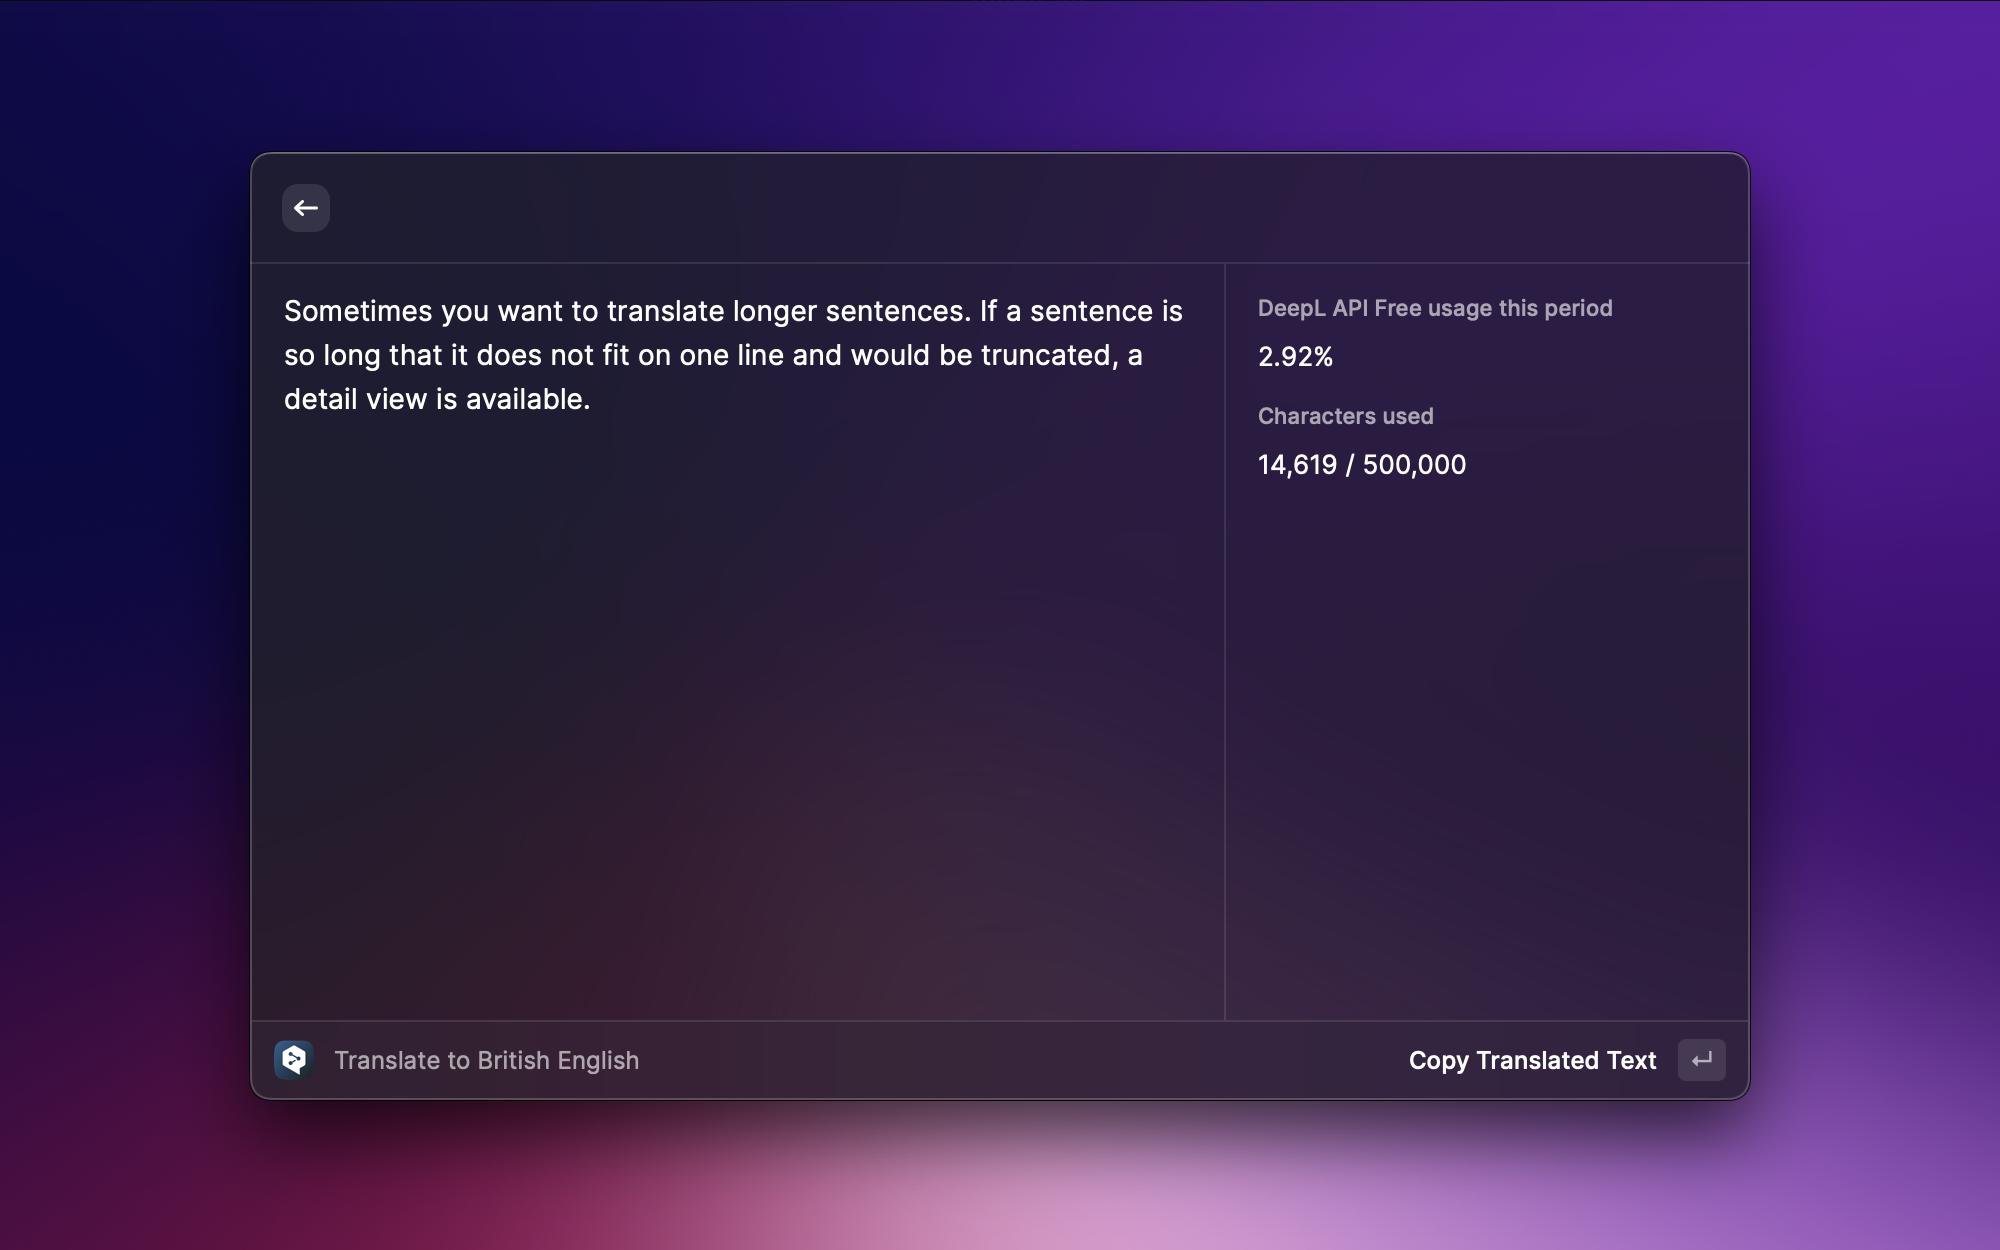
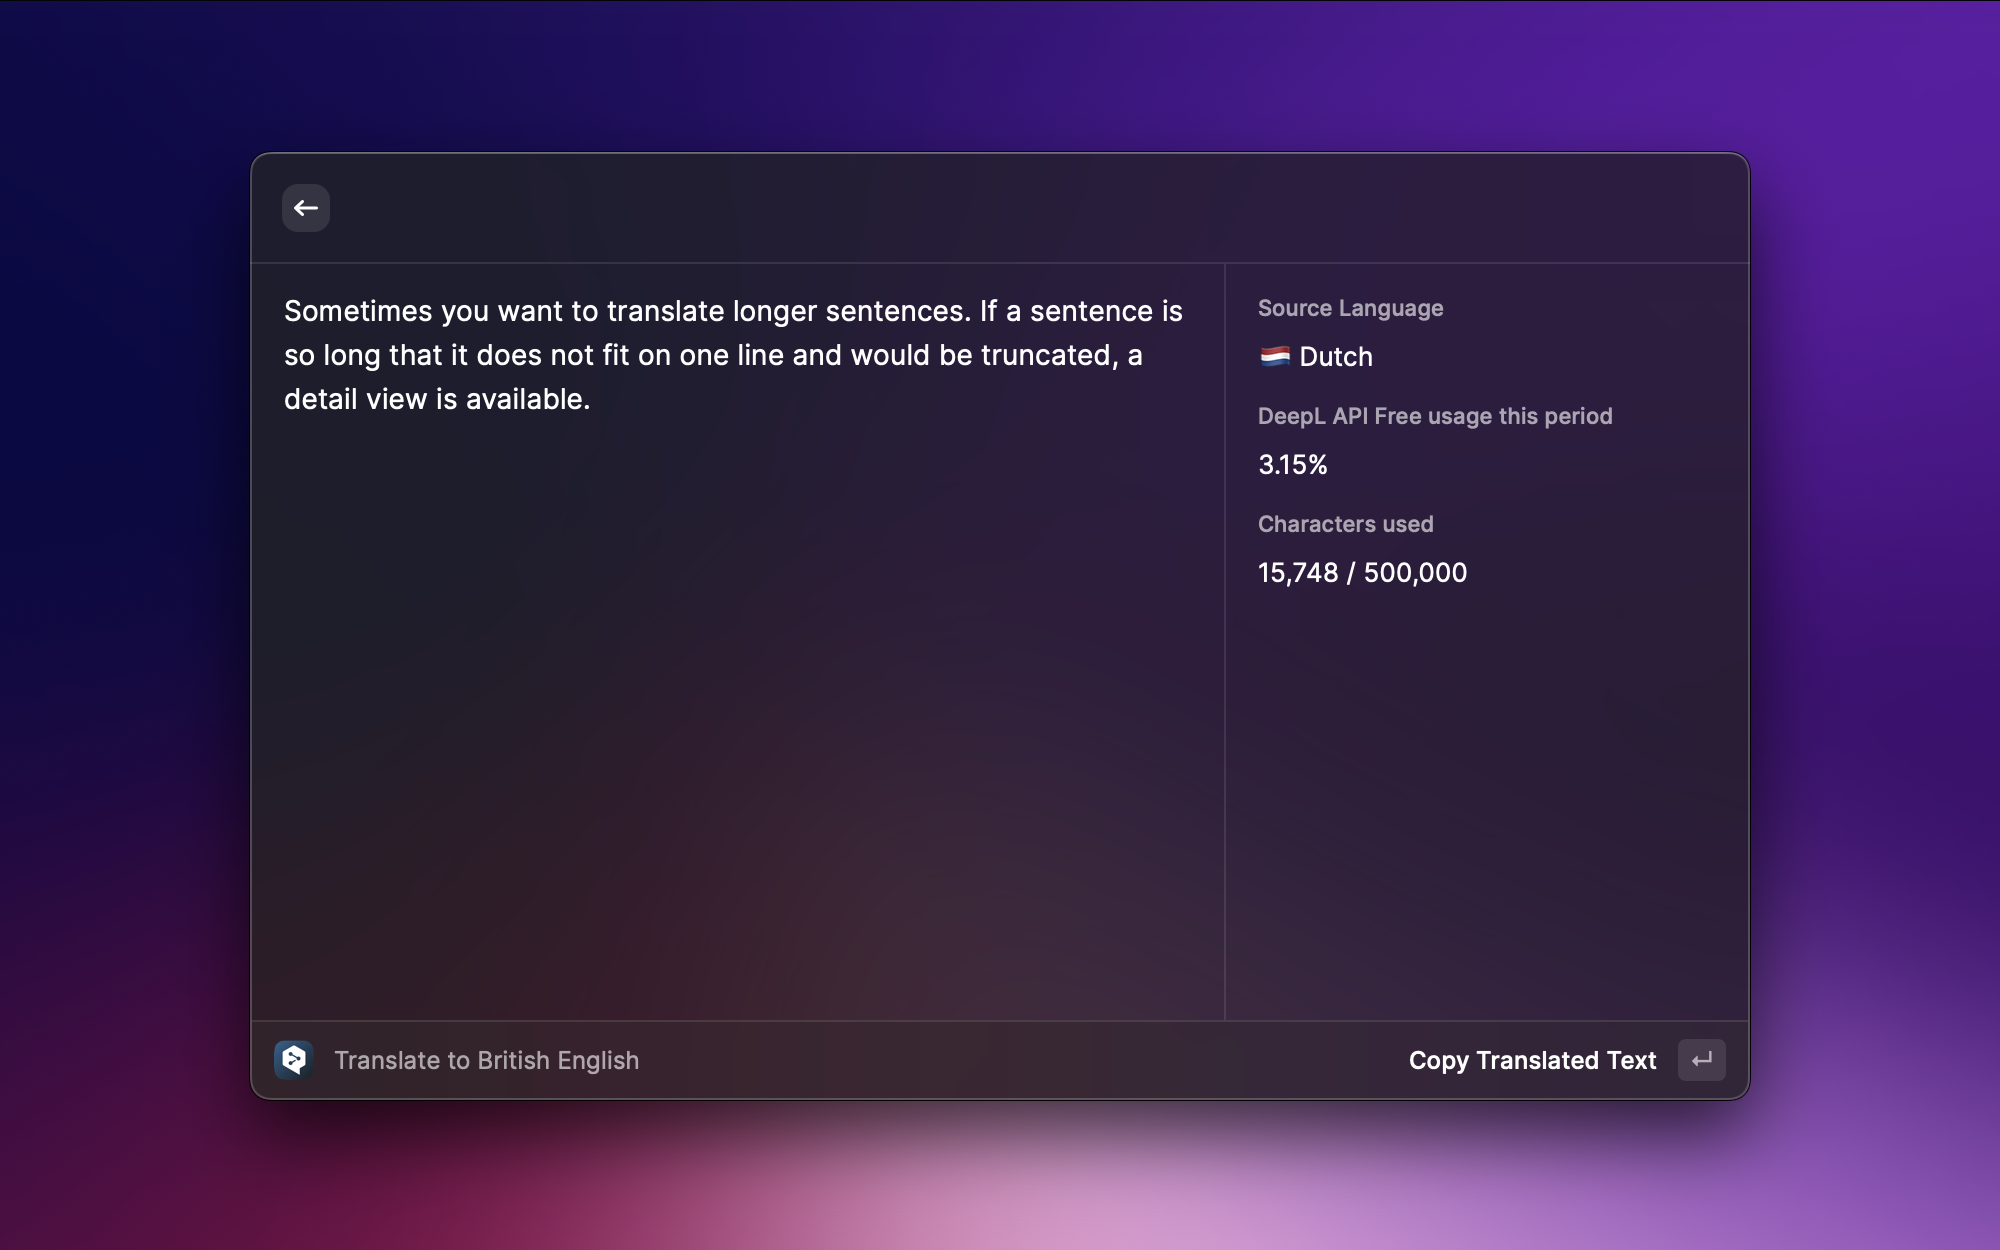
Add source language to detail view

Changed region(s): [[0.62, 0.2184, 0.806, 0.3744], [0.62, 0.4056, 0.744, 0.468]]

diff --git a/src/components/TranslationResultDetail.tsx b/src/components/TranslationResultDetail.tsx
@@ -1,8 +1,8 @@
 import { Action, ActionPanel, Detail, getPreferenceValues } from "@raycast/api";
-import { TranslationState, Usage } from "../lib/deeplapi";
+import { Language, sourceLanguages, TranslationState } from "../lib/deeplapi";
 
 export default function TranslationResultDetail({ state }: { state: TranslationState }) {
-  if (state.translation == null) {
+  if (state == null) {
     return null;
   }
 
@@ -11,35 +11,47 @@ export default function TranslationResultDetail({ state }: { state: TranslationS
       markdown={`${state.translation?.text}`}
       actions={
         <ActionPanel>
-          <Action.CopyToClipboard title="Copy Translated Text" content={state.translation?.text} />
+          <Action.CopyToClipboard title="Copy Translated Text" content={state.translation?.text ?? ""} />
         </ActionPanel>
       }
-      metadata={metadata(state.usage)}
+      metadata={metadata(state)}
     />
   );
 }
 
-function metadata(usage: Usage | null): JSX.Element | null {
-  if (usage == null) {
-    return null;
-  }
+function metadata(state: TranslationState | null): JSX.Element | null {
+  if (state == null) return null;
 
   const preferences = getPreferenceValues();
   const plan = preferences.plan == "free" ? "DeepL API Free" : "DeepL API Pro";
+  const sourceLanguage =
+    state.sourceLanguage ??
+    sourceLanguages.find(function (language: Language) {
+      return language.code == state.translation?.detected_source_language;
+    });
+
 
   return (
     <Detail.Metadata>
       <Detail.Metadata.Label
-        title={`${plan} usage this period`}
-        text={(usage.character_count / usage.character_limit).toLocaleString(undefined, {
-          style: "percent",
-          maximumFractionDigits: 2,
-        })}
+        title="Source Language"
+        text={sourceLanguage?.name ?? "Unknown"}
       />
-      <Detail.Metadata.Label
-        title="Characters used"
-        text={`${usage.character_count.toLocaleString()} / ${usage.character_limit.toLocaleString()}`}
-      />
+      {state.usage != null &&
+        <Detail.Metadata.Label
+          title={`${plan} usage this period`}
+          text={(state.usage.character_count / state.usage.character_limit).toLocaleString(undefined, {
+            style: "percent",
+            maximumFractionDigits: 2,
+          })}
+        />
+      }
+      {state.usage != null &&
+        <Detail.Metadata.Label
+          title="Characters used"
+          text={`${state.usage.character_count.toLocaleString()} / ${state.usage.character_limit.toLocaleString()}`}
+        />
+      }
     </Detail.Metadata>
   );
 }

diff --git a/src/lib/deeplapi.ts b/src/lib/deeplapi.ts
@@ -159,8 +159,8 @@ function apiUrlFor(endpoint: Endpoint): string {
 type Endpoint = "translate" | "usage" | "languages";
 
 export type Language = {
-  code: string;
   name: string;
+  code: string;
 };
 
 export type TranslationResponse = {
